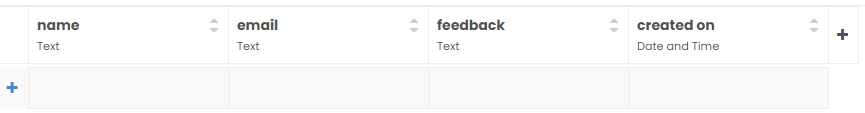
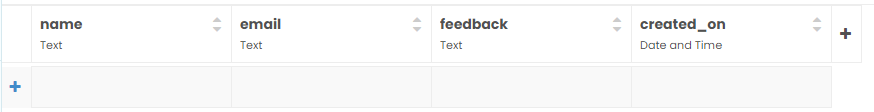
update

diff --git a/docs/Anvil/feedback_form.rst b/docs/Anvil/feedback_form.rst
@@ -2,7 +2,8 @@
 Feedback Form
 ====================================================
 
-This builds a feedback form that uses full stack: client side and server side code in python.
+| This builds a feedback form that uses full stack: client side and server side code in python.
+| The refernces add email capability but email ihas quotas, so we will not create autoamted emails.
 
 .. image:: images/Feedback_Form.png
     :scale: 50%
@@ -11,6 +12,7 @@ References
 ------------------------------
 
 #. Youtube guide to create the app: https://www.youtube.com/watch?v=liZThmkIwys
+#. Ofcial Anvil guide with screenshots and animated gifs: https://anvil.works/learn/tutorials/feedback-form
 
 ----
 
@@ -41,14 +43,11 @@ Build first part of interface
 
 | Build the following interface by dragging and dropping components and setting their properties.
 
-
 | Drag and drop the *card* component from the right toolbox onto Form1.
 
 | Drag and drop the *label* component onto card_1.
 | In the properties panel: text section, set the text to ``Feedback Form``.
 | In the properties panel: appearance section, set the role to ``Headline``.
-
-
 
 | Drag and drop three *label* components onto card_1 below the Feedback Form label, one below the other. 
 
@@ -58,19 +57,20 @@ Build first part of interface
 | A horizontal blue line will indicate that you are in the right place to drop it.
 | In the properties panel: set their text to ``Name:``, ``Email:`` and ``Feedback:``.
 
-
-
 | Drag and drop a *text box* component onto card_1 to the right of the Name label. 
 
 .. image:: images/Feedback_Form_add_text_box.png
     :scale: 80%
 
+| In the properties panel: set the name to ``name_box``.
 | In the properties panel: set the placeholder to ``Name here``.
 
 | Drag and drop a *text box* component onto card_1 to the right of the Email label. 
+| In the properties panel: set the name to ``email_box``.
 | In the properties panel: set the placeholder to ``Email here``.
 
 | Drag and drop a *text area* component onto card_1 below the Feedback label. 
+| In the properties panel: set the name to ``feedback_box``.
 | In the properties panel: set the placeholder to ``Feedback here``.
 
 | Drag and drop a *button* component onto card_1 below the Feedback text area. 
@@ -115,7 +115,7 @@ Build Data Table
 
 | Click on the ``+`` button.
 | Choose ``Add date and Time Column``.
-| Change the column name from Column3 to ``created on``.
+| Change the column name from Column3 to ``created_on``.
 
 .. image:: images/Feedback_Form_Data_Table_columns.png
     :scale: 80%
@@ -131,4 +131,37 @@ Build the Server Code
 .. image:: images/Feedback_Form_Add_Server_Module.png
     :scale: 80%
 
+| Enter the code to add a data table row.
+| Import the datetime module so the created_on value can be gotten.
+| ``@anvil.server.callable`` is a decorator. Placing it before the following definition modifes it so it is callable from the client form.
+| ``add_feedback`` will pass in name, email, and feedback values from the form to add them to the data table.
+| ``datetime.now()`` will get the fate and time. e.g. 2022-04-01 20:30:11.532646
 
+.. code-block:: python
+
+    import anvil.tables as tables
+    import anvil.tables.query as q
+    from anvil.tables import app_tables
+    import anvil.server
+
+    from datetime import datetime
+
+    @anvil.server.callable
+    def add_feedback(name, email, feedback):
+        app_tables.feedback.add_row(name=name, 
+                                    email=email, 
+                                    feedback=feedback,
+                                    created_on=datetime.now())
+
+----
+
+Build the Submit Code
+------------------------------
+
+| Click on the Form1 tab.
+| Double click the Submit button. This add default code for it.
+
+
+.. code-block:: python
+
+    

diff --git a/docs/Anvil/temperature_converter.rst b/docs/Anvil/temperature_converter.rst
@@ -42,6 +42,11 @@ Settings
 Build first part of interface
 ------------------------------
 
+| Add a Title at the top in the blue header.
+| Drag and drop the *label* component onto ``Drop titel here``.
+| In the properties panel: text section, set the text to ``Temperature_convertere``.
+
+
 | Build the following interface by dragging and dropping components and setting their properties.
 
 .. image:: images/Temperature_converter_layout.png

diff --git a/docs/Anvil/temperature_converter2.rst b/docs/Anvil/temperature_converter2.rst
@@ -269,4 +269,4 @@ Final code
 
     #. Add some colour to the buttons and the text and the form.
     #. Add try except to calculation functions so that non numerical entries are handled. See the use of this in the calculator code.
-    #. Replace Fahrenheit with Kelvin and adjust to the display and code to work.
+    #. Replace Fahrenheit with Kelvin and adjust the display and the code to work.

diff --git a/docs/Anvil/first_steps.rst b/docs/Anvil/first_steps.rst
@@ -18,6 +18,8 @@ Become familiar with the docs
 | Read: https://anvil.works/docs/client/ui
 | Read: https://anvil.works/docs/client/components
 
+| For publishing the app: https://anvil.works/beta-docs/deployment-new-ide/quickstart#quickstart-deployment
+
 ----
 
 As you use components:
